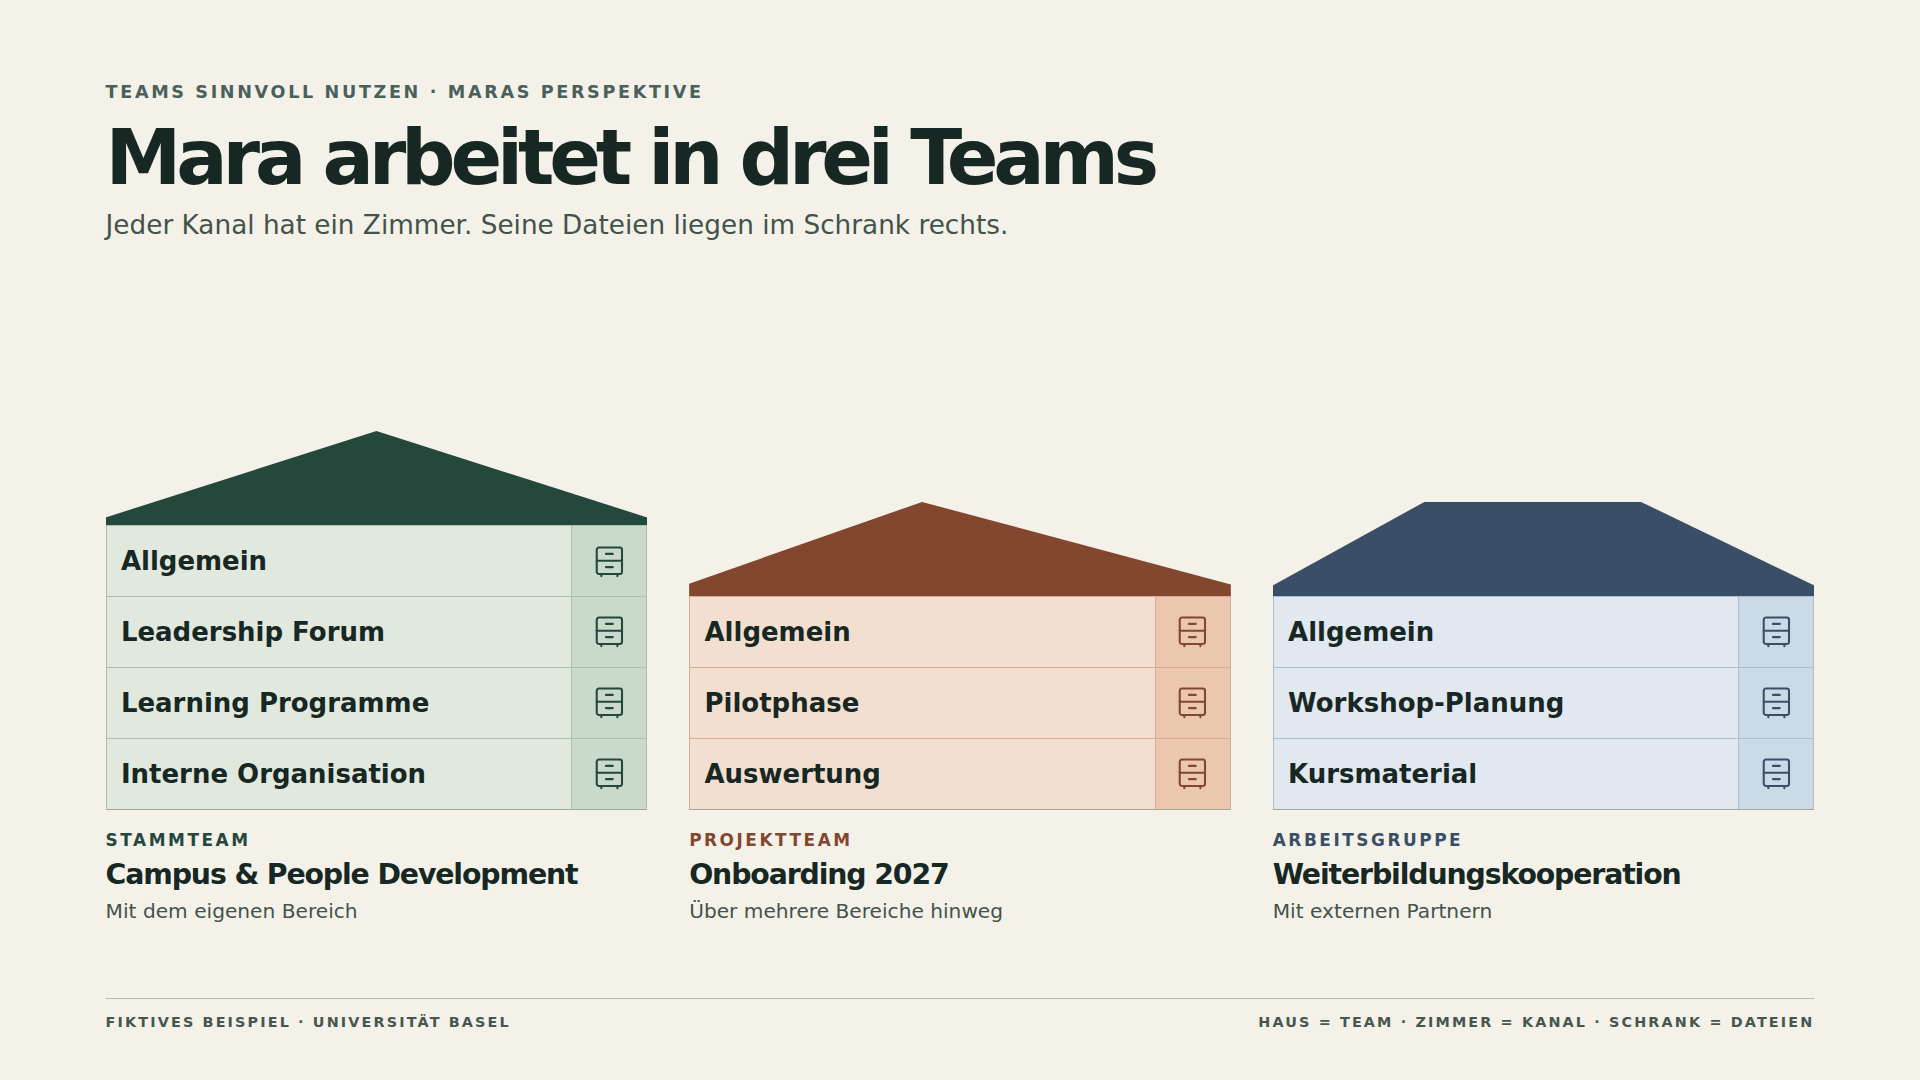
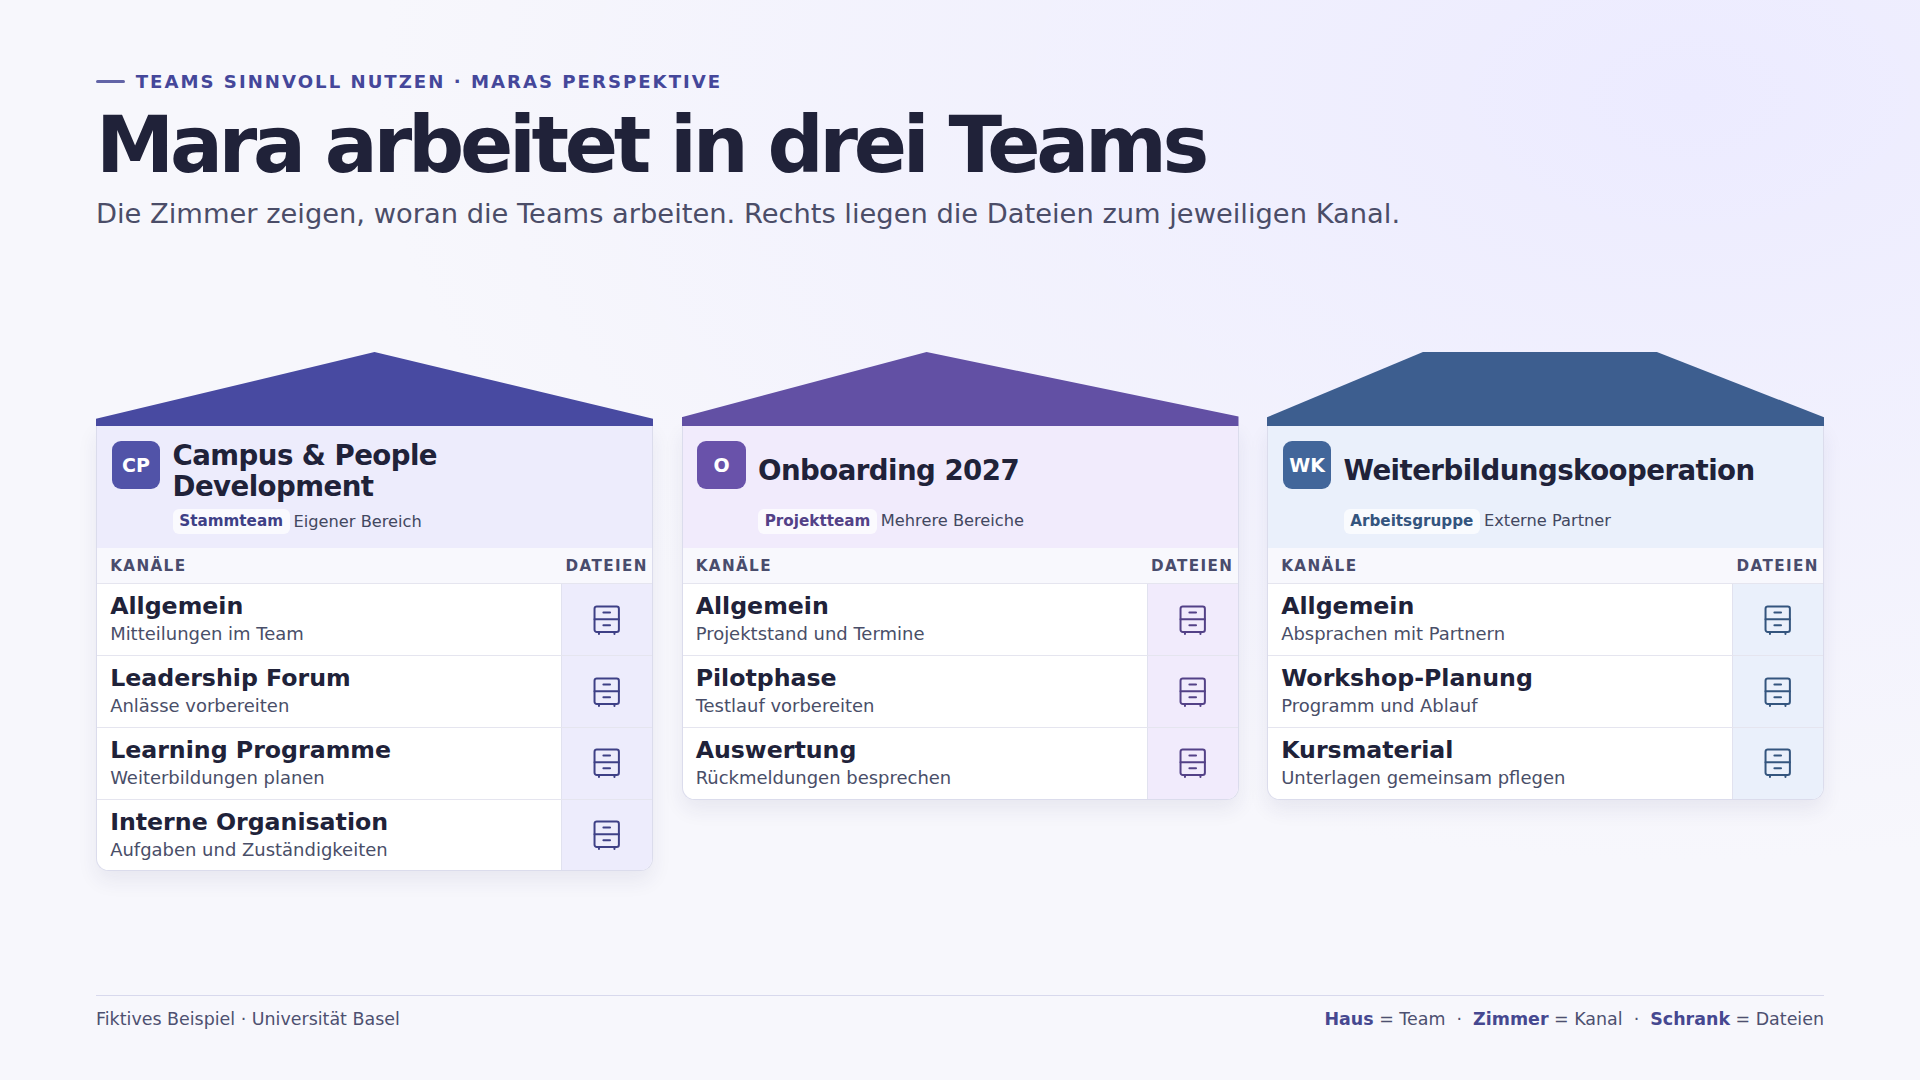
Apply Teams styling and channel purposes to house overview

diff --git a/docs/mockups/three-houses.html b/docs/mockups/three-houses.html
@@ -5,7 +5,7 @@
 <meta name="viewport" content="width=device-width, initial-scale=1">
 <title>Mara arbeitet in drei Teams</title>
 <style>
-  :root { color: #172723; background: #f4f1e9; font-family: "DejaVu Sans", sans-serif; }
+  :root { color: #202239; background: #f5f5fb; font-family: "Segoe UI", Arial, sans-serif; }
   * { box-sizing: border-box; }
   body { margin: 0; }
   .slide {
@@ -13,63 +13,43 @@
     width: min(100%, 1920px);
     aspect-ratio: 16/9;
     margin: auto;
-    padding: 4.25% 5.5% 2.6%;
+    padding: 3.7% 5% 2.65%;
     display: grid;
-    grid-template-rows: auto 1fr auto;
-    gap: 2.1cqw;
-    background: #f4f1e9;
+    grid-template-rows: auto minmax(0, 1fr) auto;
+    gap: 1.7cqw;
+    background: radial-gradient(ellipse at 88% 9%, #ecebff, transparent 55%), #f7f7fc;
   }
-  .eyebrow, .caption, .type { letter-spacing: .15em; text-transform: uppercase; font-weight: 700; }
-  .eyebrow { color: #49615a; font-size: 1.03cqw; margin: 0 0 1.06cqw; }
-  h1 { font-size: 4.46cqw; font-weight: 700; letter-spacing: -.068em; line-height: 1; margin: 0; }
-  .deckline { font-size: 1.54cqw; color: #43534b; margin: .83cqw 0 0; }
-  .houses { display: grid; align-items: end; grid-template-columns: repeat(3, 1fr); gap: 2.45cqw; margin: 0; padding: 0; list-style: none; }
-  .house { min-width: 0; }
-  .figure {
-    height: 22.6cqw;
-    display: flex;
-    flex-direction: column;
-    justify-content: end;
-    border-bottom: 1px solid #a2a79b;
-  }
-  .roof {
-    height: 5.5cqw;
-    flex: none;
-    background: var(--roof);
-    clip-path: polygon(50% 0, 100% 92%, 100% 100%, 0 100%, 0 92%);
-  }
-  .core { --wall: #e1e9df; --roof: #25483d; --line: #aebfae; --cabinet: #c9d9ca; }
-  .project { --wall: #f3dfd0; --roof: #82472e; --line: #d5ae94; --cabinet: #ebc7ae; }
-  .partners { --wall: #e2e8ef; --roof: #3b4e68; --line: #aebdcb; --cabinet: #ccd9e6; }
-  .project .roof { clip-path: polygon(43% 0, 100% 88%, 100% 100%, 0 100%, 0 87%); }
-  .partners .roof { clip-path: polygon(0 89%, 28% 0, 68% 0, 100% 89%, 100% 100%, 0 100%); }
-  .rooms { list-style: none; margin: 0; padding: 0; border-inline: 1px solid var(--line); }
-  .room {
-    min-height: 4.15cqw;
-    display: grid;
-    grid-template-columns: minmax(0, 1fr) 4.4cqw;
-    border-top: 1px solid var(--line);
-    background: var(--wall);
-  }
-  .room-name { align-self: center; padding: .35cqw .84cqw; font-size: 1.52cqw; font-weight: 700; }
-  .cabinet {
-    background: var(--cabinet);
-    color: var(--roof);
-    border-left: 1px solid var(--line);
-    display: grid;
-    place-items: center;
-  }
-  .cabinet svg { display: block; width: 2.15cqw; height: 2.15cqw; }
-  .label { padding: 1.18cqw 0 .25cqw; min-height: 8.65cqw; }
-  .type { color: var(--roof); font-size: .99cqw; margin: 0 0 .55cqw; }
-  h2 { font-size: 1.66cqw; line-height: 1.1; margin: 0; letter-spacing: -.04em; }
-  .scope { margin: .49cqw 0 0; font-size: 1.18cqw; color: #43534b; }
-  footer { display: flex; justify-content: space-between; border-top: 1px solid #b5b6a9; padding-top: .9cqw; color: #46574f; }
-  .caption { font-size: .84cqw; }
-  @media (max-width: 560px) {
-    .slide { gap: 1.6cqw; }
-    .label { min-height: 9.5cqw; }
-  }
+  .eyebrow { display: flex; align-items: center; gap: .65cqw; color: #45479a; font-size: 1.05cqw; font-weight: 700; letter-spacing: .11em; text-transform: uppercase; margin: 0 0 .74cqw; }
+  .eyebrow::before { content: ""; width: 1.65cqw; height: .22cqw; border-radius: 9px; background: #6264a7; }
+  h1 { font-size: 4.55cqw; font-weight: 700; letter-spacing: -.055em; line-height: 1.04; margin: 0; }
+  .deckline { font-size: 1.58cqw; color: #4b4d68; margin: .65cqw 0 0; }
+  .houses { display: grid; align-content: center; align-items: start; grid-template-columns: repeat(3, minmax(0, 1fr)); gap: 1.65cqw; margin: 0; padding: 0; list-style: none; }
+  .house { min-width: 0; display: flex; flex-direction: column; }
+  .roof { height: 4.3cqw; flex: none; background: var(--roof); clip-path: polygon(50% 0, 100% 90%, 100% 100%, 0 100%, 0 90%); }
+  .project .roof { clip-path: polygon(44% 0, 100% 87%, 100% 100%, 0 100%, 0 88%); }
+  .partners .roof { clip-path: polygon(0 88%, 28% 0, 70% 0, 100% 88%, 100% 100%, 0 100%); }
+  .core { --roof: #484aa1; --tint: #edecfc; --tile: #5153a8; --detail: #3e4086; }
+  .project { --roof: #6250a4; --tint: #f1ebfc; --tile: #6952aa; --detail: #534187; }
+  .partners { --roof: #3d5e8f; --tint: #eaf0fb; --tile: #42669a; --detail: #34557e; }
+  .building { background: #fff; border: 1px solid #dbdcec; border-top: 0; box-shadow: 0 .55cqw 1.2cqw #28295d13; border-radius: 0 0 .72cqw .72cqw; overflow: hidden; }
+  .label { padding: .84cqw .85cqw .8cqw; min-height: 7.05cqw; background: var(--tint); display: grid; grid-template-columns: 2.82cqw minmax(0, 1fr); gap: .7cqw; align-items: start; }
+  .tile { display: grid; place-items: center; width: 2.82cqw; height: 2.82cqw; border-radius: .52cqw; background: var(--tile); color: #fff; font-size: 1.1cqw; font-weight: 700; }
+  h2 { font-size: 1.6cqw; line-height: 1.12; margin: 0 0 .52cqw; letter-spacing: -.02em; min-height: 3.55cqw; display: flex; align-items: center; }
+  .type { color: var(--detail); background: #ffffffb8; border-radius: .35cqw; padding: .2cqw .39cqw; font-size: .88cqw; font-weight: 700; }
+  .scope { display: inline; margin: 0 0 0 .22cqw; font-size: .94cqw; color: #424760; }
+  .column-labels, .room { display: grid; grid-template-columns: minmax(0, 1fr) 5.25cqw; }
+  .column-labels { color: #494c6c; background: #f8f8fd; font-size: .88cqw; text-transform: uppercase; letter-spacing: .09em; font-weight: 700; }
+  .column-labels span { padding: .49cqw .76cqw; }
+  .column-labels span:last-child { text-align: center; padding-inline: 0; }
+  .rooms { list-style: none; margin: 0; padding: 0; }
+  .room { min-height: 4.16cqw; border-top: 1px solid #e5e5ef; }
+  .room-content { display: grid; align-content: center; padding: .47cqw .76cqw; }
+  .room-name { font-size: 1.37cqw; font-weight: 700; line-height: 1.08; }
+  .purpose { font-size: 1.04cqw; color: #494e68; line-height: 1.14; margin-top: .27cqw; }
+  .cabinet { background: var(--tint); color: var(--detail); border-left: 1px solid #e1e2ef; display: grid; place-items: center; }
+  .cabinet svg { width: 2.05cqw; height: 2.05cqw; }
+  footer { display: flex; justify-content: space-between; gap: 1cqw; border-top: 1px solid #d8d9ed; padding-top: .78cqw; color: #4d5070; font-size: 1.01cqw; }
+  footer strong { color: #464890; }
 </style>
 </head>
 <body>
@@ -77,26 +57,30 @@
   <header>
     <p class="eyebrow">Teams sinnvoll nutzen · Maras Perspektive</p>
     <h1 id="title">Mara arbeitet in drei Teams</h1>
-    <p class="deckline">Jeder Kanal hat ein Zimmer. Seine Dateien liegen im Schrank rechts.</p>
+    <p class="deckline">Die Zimmer zeigen, woran die Teams arbeiten. Rechts liegen die Dateien zum jeweiligen Kanal.</p>
   </header>
   <ul class="houses" aria-label="Maras drei Teams"></ul>
   <footer>
-    <span class="caption">Fiktives Beispiel · Universität Basel</span>
-    <span class="caption">Haus = Team · Zimmer = Kanal · Schrank = Dateien</span>
+    <span>Fiktives Beispiel · Universität Basel</span>
+    <span><strong>Haus</strong> = Team &nbsp;·&nbsp; <strong>Zimmer</strong> = Kanal &nbsp;·&nbsp; <strong>Schrank</strong> = Dateien</span>
   </footer>
 </main>
 <template id="house">
   <li class="house">
-    <div class="figure">
-      <div class="roof" aria-hidden="true"></div>
+    <div class="roof" aria-hidden="true"></div>
+    <section class="building">
+      <header class="label">
+        <span class="tile" aria-hidden="true"></span>
+        <div><h2></h2><span class="type"></span><p class="scope"></p></div>
+      </header>
+      <div class="column-labels" aria-hidden="true"><span>Kanäle</span><span>Dateien</span></div>
       <ul class="rooms" aria-label="Kanäle und Dateiablagen"></ul>
-    </div>
-    <div class="label"><p class="type"></p><h2></h2><p class="scope"></p></div>
+    </section>
   </li>
 </template>
 <template id="room">
   <li class="room">
-    <span class="room-name"></span>
+    <span class="room-content"><span class="room-name"></span><span class="purpose"></span></span>
     <span class="cabinet" role="img" aria-label="Dateiablage">
       <svg viewBox="0 0 32 32" fill="none" stroke="currentColor" stroke-width="1.8" stroke-linecap="round" aria-hidden="true">
         <rect x="5" y="4" width="22" height="23" rx="2"/>
@@ -107,9 +91,25 @@
 </template>
 <script>
   const teams = [
-    { style: 'core', name: 'Campus & People Development', type: 'Stammteam', scope: 'Mit dem eigenen Bereich', rooms: ['Allgemein', 'Leadership Forum', 'Learning Programme', 'Interne Organisation'] },
-    { style: 'project', name: 'Onboarding 2027', type: 'Projektteam', scope: 'Über mehrere Bereiche hinweg', rooms: ['Allgemein', 'Pilotphase', 'Auswertung'] },
-    { style: 'partners', name: 'Weiterbildungskooperation', type: 'Arbeitsgruppe', scope: 'Mit externen Partnern', rooms: ['Allgemein', 'Workshop-Planung', 'Kursmaterial'] },
+    { style: 'core', initials: 'CP', name: 'Campus & People Development', type: 'Stammteam', scope: 'Eigener Bereich',
+      rooms: [
+        ['Allgemein', 'Mitteilungen im Team'],
+        ['Leadership Forum', 'Anlässe vorbereiten'],
+        ['Learning Programme', 'Weiterbildungen planen'],
+        ['Interne Organisation', 'Aufgaben und Zuständigkeiten'],
+      ] },
+    { style: 'project', initials: 'O', name: 'Onboarding 2027', type: 'Projektteam', scope: 'Mehrere Bereiche',
+      rooms: [
+        ['Allgemein', 'Projektstand und Termine'],
+        ['Pilotphase', 'Testlauf vorbereiten'],
+        ['Auswertung', 'Rückmeldungen besprechen'],
+      ] },
+    { style: 'partners', initials: 'WK', name: 'Weiterbildungskooperation', type: 'Arbeitsgruppe', scope: 'Externe Partner',
+      rooms: [
+        ['Allgemein', 'Absprachen mit Partnern'],
+        ['Workshop-Planung', 'Programm und Ablauf'],
+        ['Kursmaterial', 'Unterlagen gemeinsam pflegen'],
+      ] },
   ];
   const template = document.querySelector('#house');
   const roomTemplate = document.querySelector('#room');
@@ -117,13 +117,15 @@
   for (const team of teams) {
     const house = template.content.firstElementChild.cloneNode(true);
     house.classList.add(team.style);
+    house.querySelector('.tile').textContent = team.initials;
     house.querySelector('h2').textContent = team.name;
     house.querySelector('.type').textContent = team.type;
     house.querySelector('.scope').textContent = team.scope;
     const rooms = house.querySelector('.rooms');
-    for (const name of team.rooms) {
+    for (const [name, purpose] of team.rooms) {
       const room = roomTemplate.content.firstElementChild.cloneNode(true);
       room.querySelector('.room-name').textContent = name;
+      room.querySelector('.purpose').textContent = purpose;
       rooms.append(room);
     }
     houses.append(house);

diff --git a/docs/WORKSPACE-HOUSE-CUTAWAY.md b/docs/WORKSPACE-HOUSE-CUTAWAY.md
@@ -2,7 +2,7 @@
 
 Status: design concept for the next workspace visual. The overview is a standalone HTML and JavaScript mockup. See the [current workspace handoff](WORKSPACE-PROFILE-HANDOFF.md) for implemented behaviour.
 
-![Overview slide with three Teams houses, named channel rows and a file cabinet beside each channel](mockups/three-houses.png)
+![Overview slide with three Teams houses, team names inside the houses, channel purposes and an aligned file cabinet](mockups/three-houses.png)
 
 [HTML and JavaScript source](mockups/three-houses.html)
 
@@ -20,7 +20,7 @@ A cabinet sits to the right of its room. Folders and subfolders are nested withi
 
 ## Slide 1 · The person’s houses
 
-Start from Mara’s fictional perspective. Show three houses side by side. Draw each channel as a named room in a horizontal row and align a filing cabinet to its right. Give each house a team name, a type label and a short description of who works there. Keep the cabinets at icon level in the overview. Reveal file and folder names on the individual house slides.
+Start from Mara’s fictional perspective. Show three houses side by side. Draw each channel as a named room in a horizontal row and align a filing cabinet to its right. Put the team name and a small team tile inside the house header beneath its roof. Add a team-type label and a short description of who works there. Give each channel one short purpose line and use a restrained Teams-inspired palette with a labelled file column. Keep the cabinets at icon level in the overview. Reveal file and folder names on the individual house slides.
 
 | House | Teamtyp | Zusammenarbeit |
 | --- | --- | --- |
